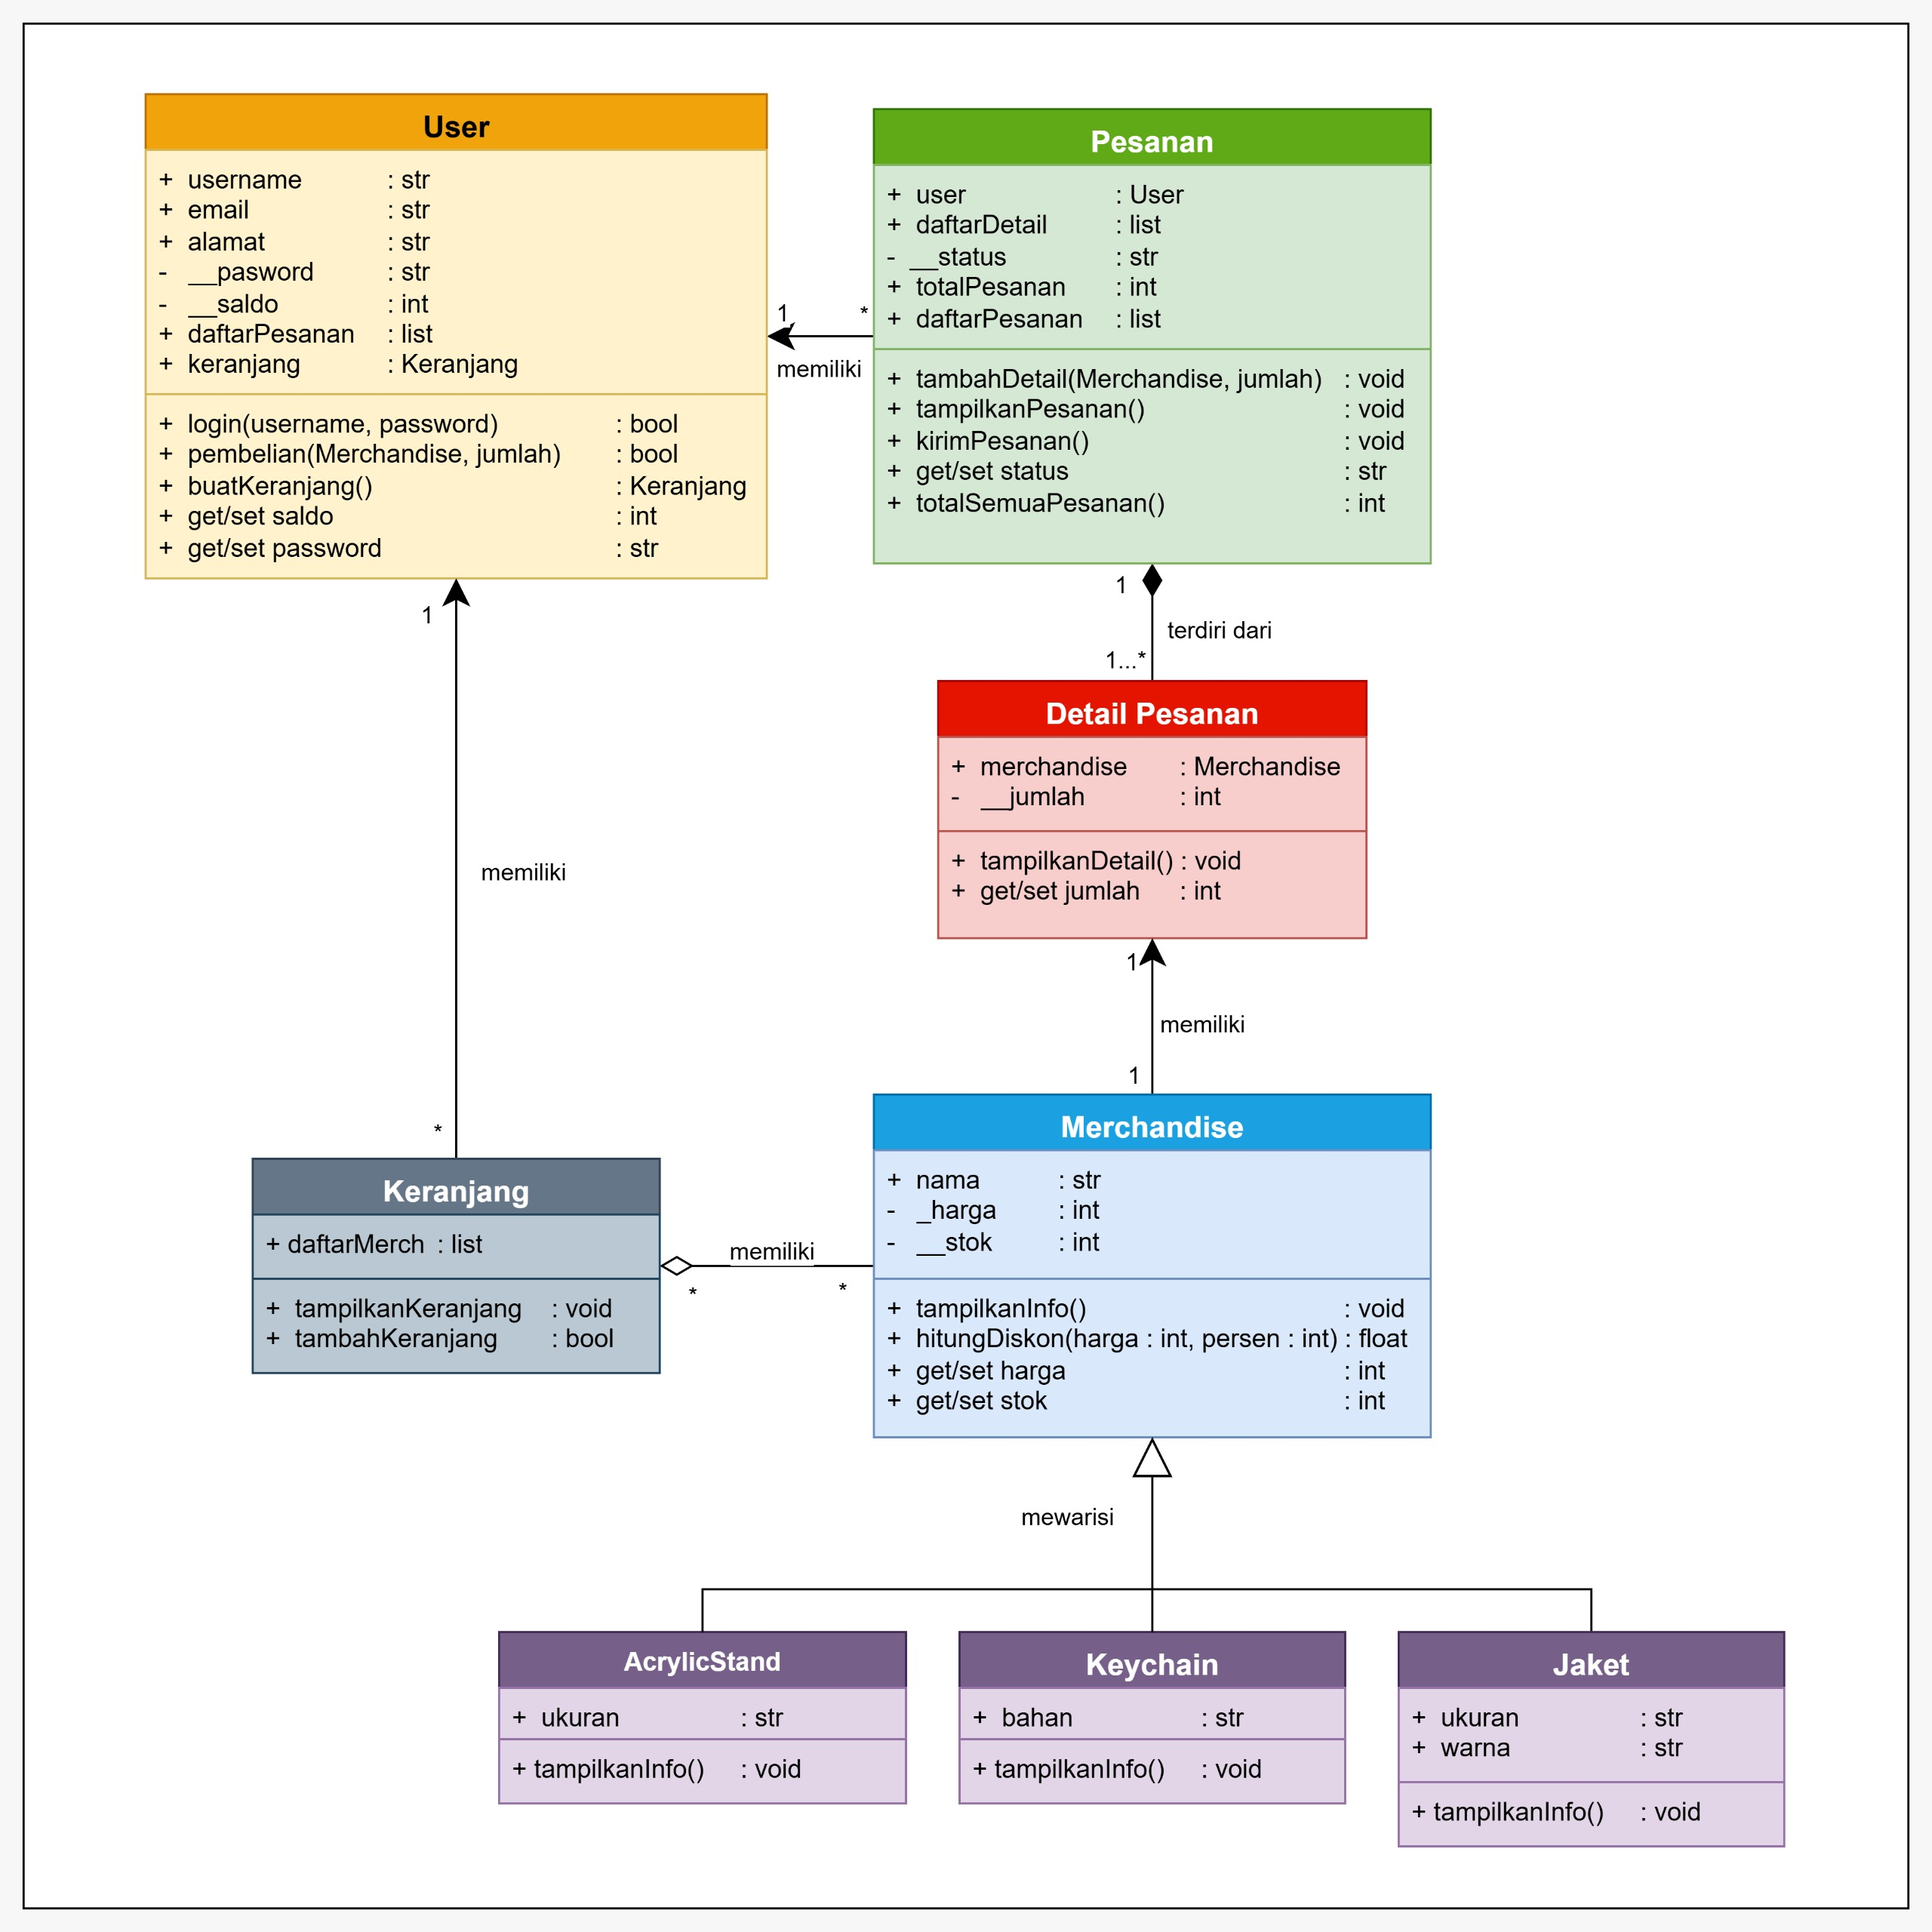
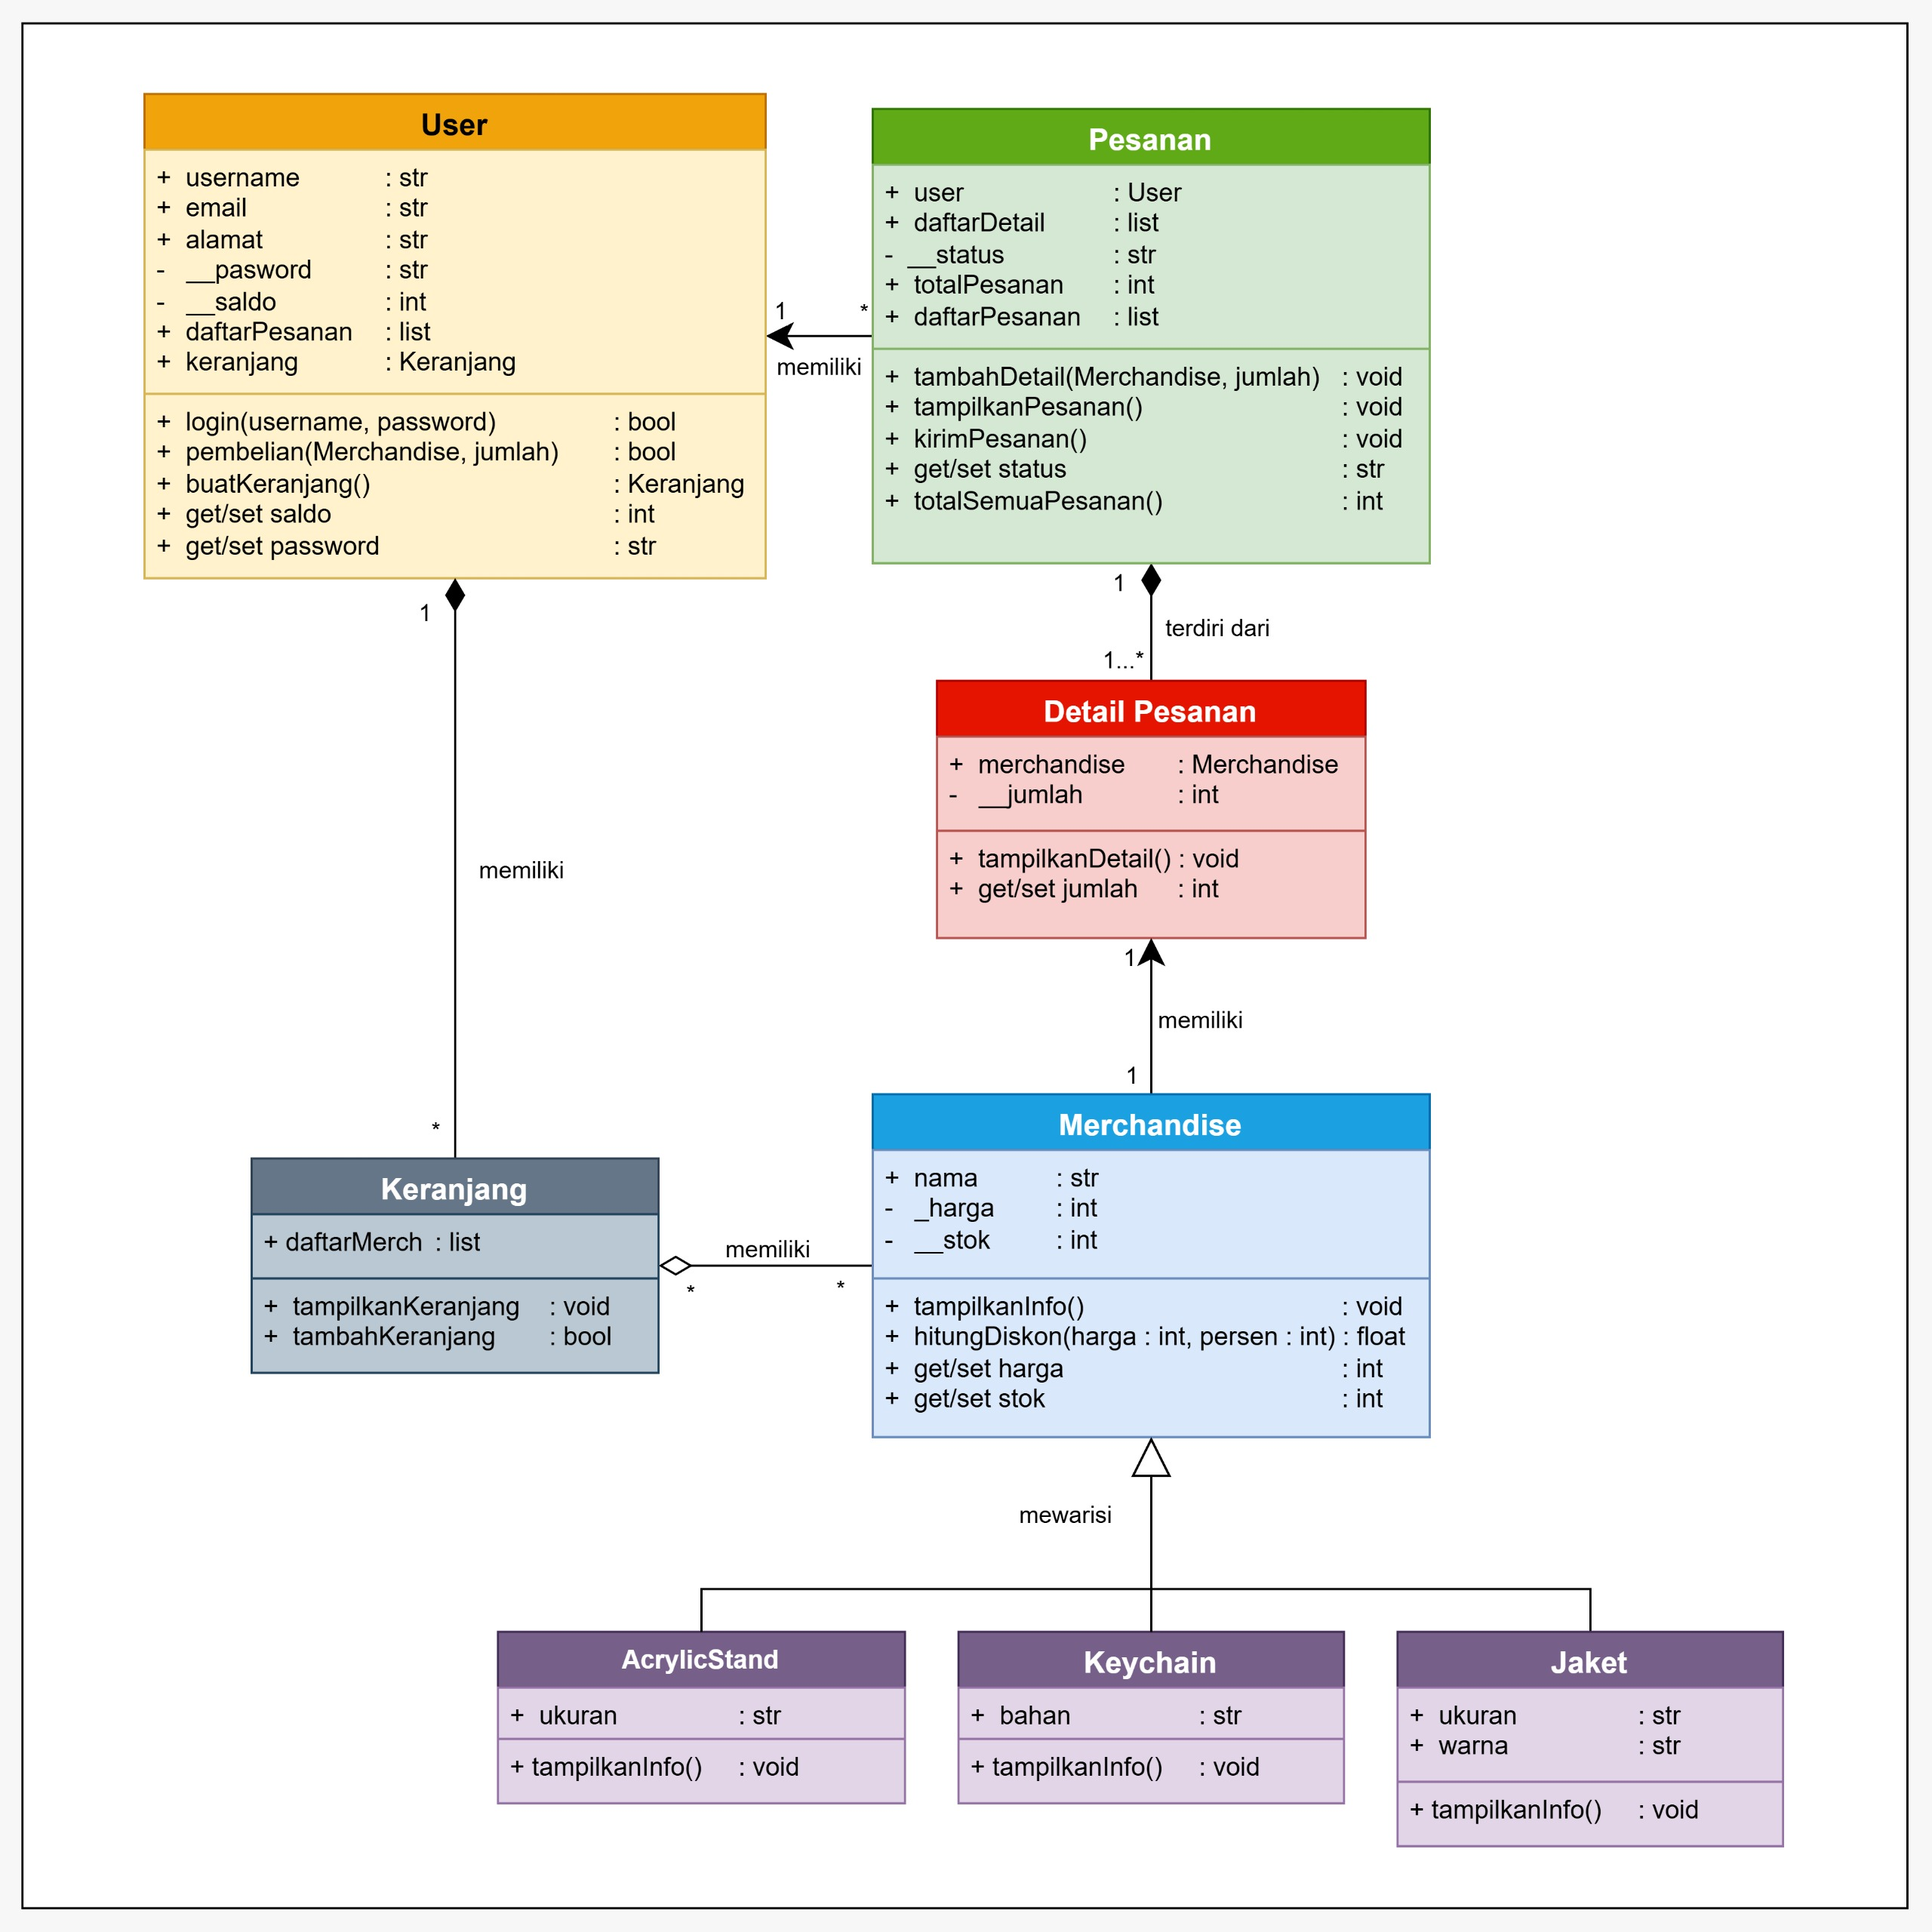
Kumpulllll pt2

diff --git a/posttest-2/README.md b/posttest-2/README.md
@@ -196,6 +196,12 @@ Berikut ini adalah diagram UML berdasarkan program tersebut.
 
 ![Gambar 1. Output Class 'merchandise'](Gambar/uml.jpeg)
 
+Dapat dilihat, semua class memiliki relasinya masing-masing.
+1. Relasi antara `user` dan `pesanan` adalah relasi asosiasi, di mana `user` berhubungan dengan `pesanan` miliknya. Jika `user` dihapus, `pesanan` masih akan tetap ada alias berdiri sendiri karena sebagai riwayat pesanan yang masih tercatat.
+2. Relasi antara `pesanan` dan `detailPesanan` adalah relasi komposisi, di mana `pesanan` terdiri dari `detailPesanan` yang berfungsi untuk merinci tiap merchandise yang dibeli pada satu pesanan. Jika `pesanan` dihapus, `detailPesanan` akan menghilang karena ia bergantung penuh pada `pesanan`.
+3. Relasi antara `detailPesanan` dan `merchandise` adalah relasi asosiasi, di mana tiap `detailPesanan` merujuk ke satu `merchandise` yang dipesan dalam satu pesanan. Jika `detailPesanan` dihapus, `merchandise` masih akan tetap ada alias berdiri sendiri karena `merchandise` tidak bergantung pada `detailPesanan`.
+4. Relasi antara `user` dan `keranjang` adalah relasi komposisi, di mana `keranjang` merupakan bagian dari `user`. Jika `user` dihapus, `keranjang` akan menghilang karena ia bergantung penuh pada `user` dan tidak ada gunanya ia tetap ada tapi tidak ada `user` yang memilikinya.
+5. Relasi antara `keranjang` dan `merchandise` adalah relasi agregasi, di mana `keranjang` memiliki `merchandise` yang disimpan user di dalamnya. Jika `keranjang` dihapus, `merchandise` masih akan tetap ada alias berdiri sendiri. Kenapa agregasi karena `keranjang` berfungsi untuk menyimpan merchandise terpilih oleh user (terdiri dari), tetapi ketika `keranjang` dihapus, `merchandise` yang berada di dalamnya tidak akan terhapus.
 
 ════════════════════════════════════════════════════════════════════════════════════════════
 
